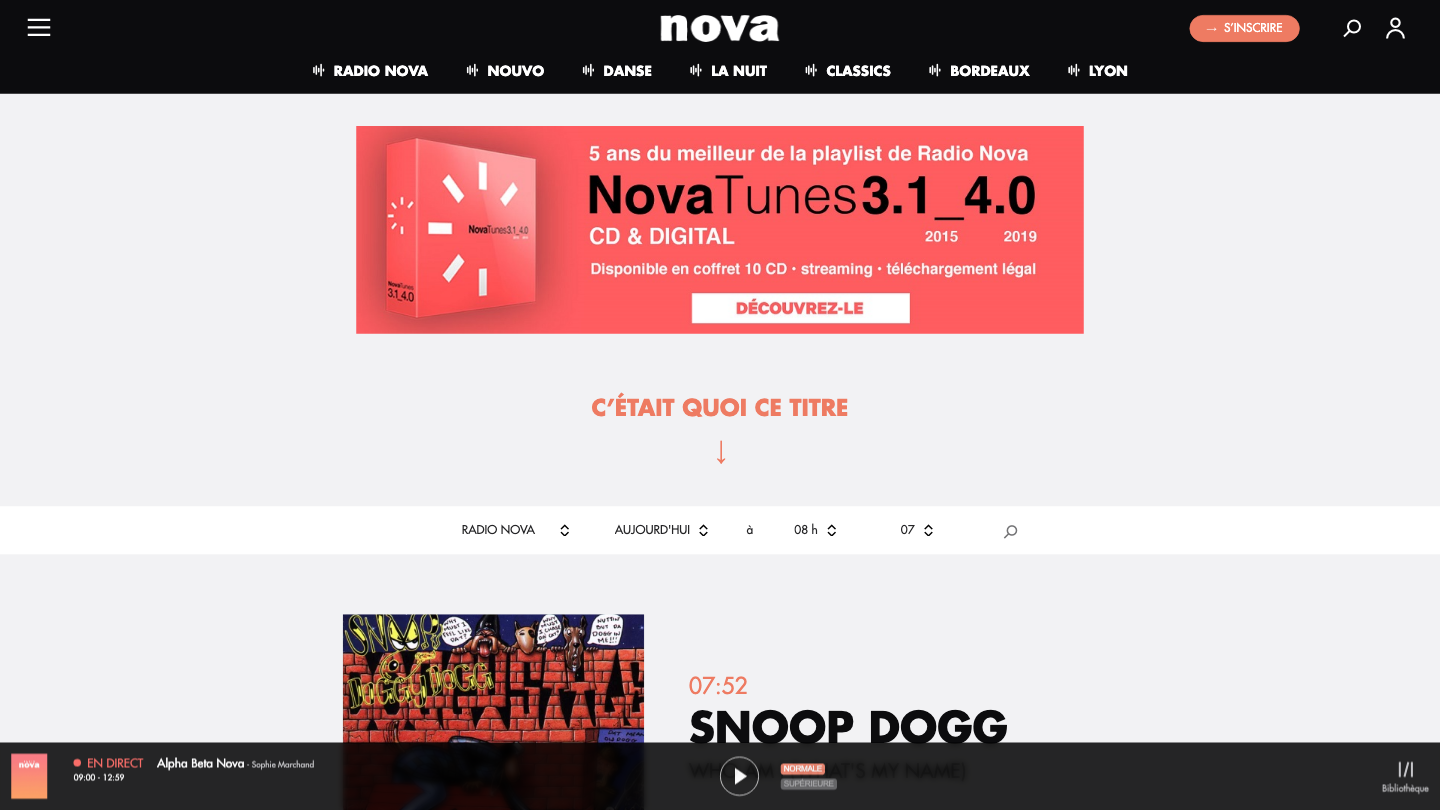
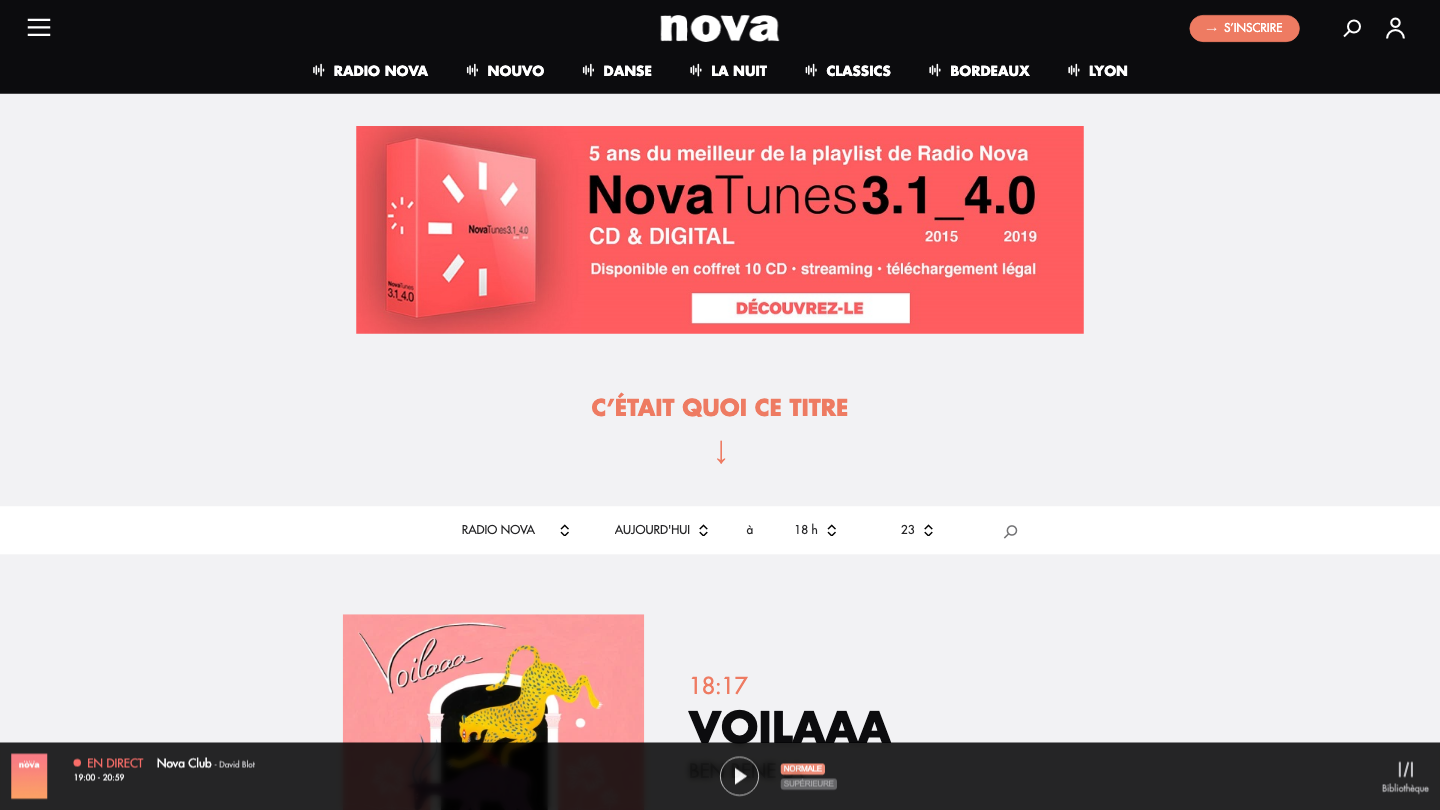
go back in time

Changed region(s): [[0.2188, 0.7407, 0.7188, 1.0], [0.0938, 0.9259, 0.2188, 0.9568]]

diff --git a/functions/src/index.ts b/functions/src/index.ts
@@ -30,12 +30,21 @@ exports.scrapeImages = functions
     console.log('coucou');
     let k = 0;
     while (k < hours) {
+      // change the hour on form
       await page.select(
         'body > div.wrap > div.content > main > div.filter_bar.js-sticky.d-lg-block.d-none > div > div > div > div > div:nth-child(4) > label > select',
-        `0${hours - 1}`
+        hours > 10 ? `${hours - 1}` : `0${hours - 1}`
       );
-
       await page.screenshot({ path: '2.png' });
+
+      await page.evaluate(() => {
+        const element: HTMLElement | null = document.querySelector(
+          '#js-mobile-program-filter > a'
+        );
+        element?.click();
+      });
+
+      await page.screenshot({ path: '3.png' });
 
       // Execute code in the DOM
       const newData = await page.evaluate(async () => {
